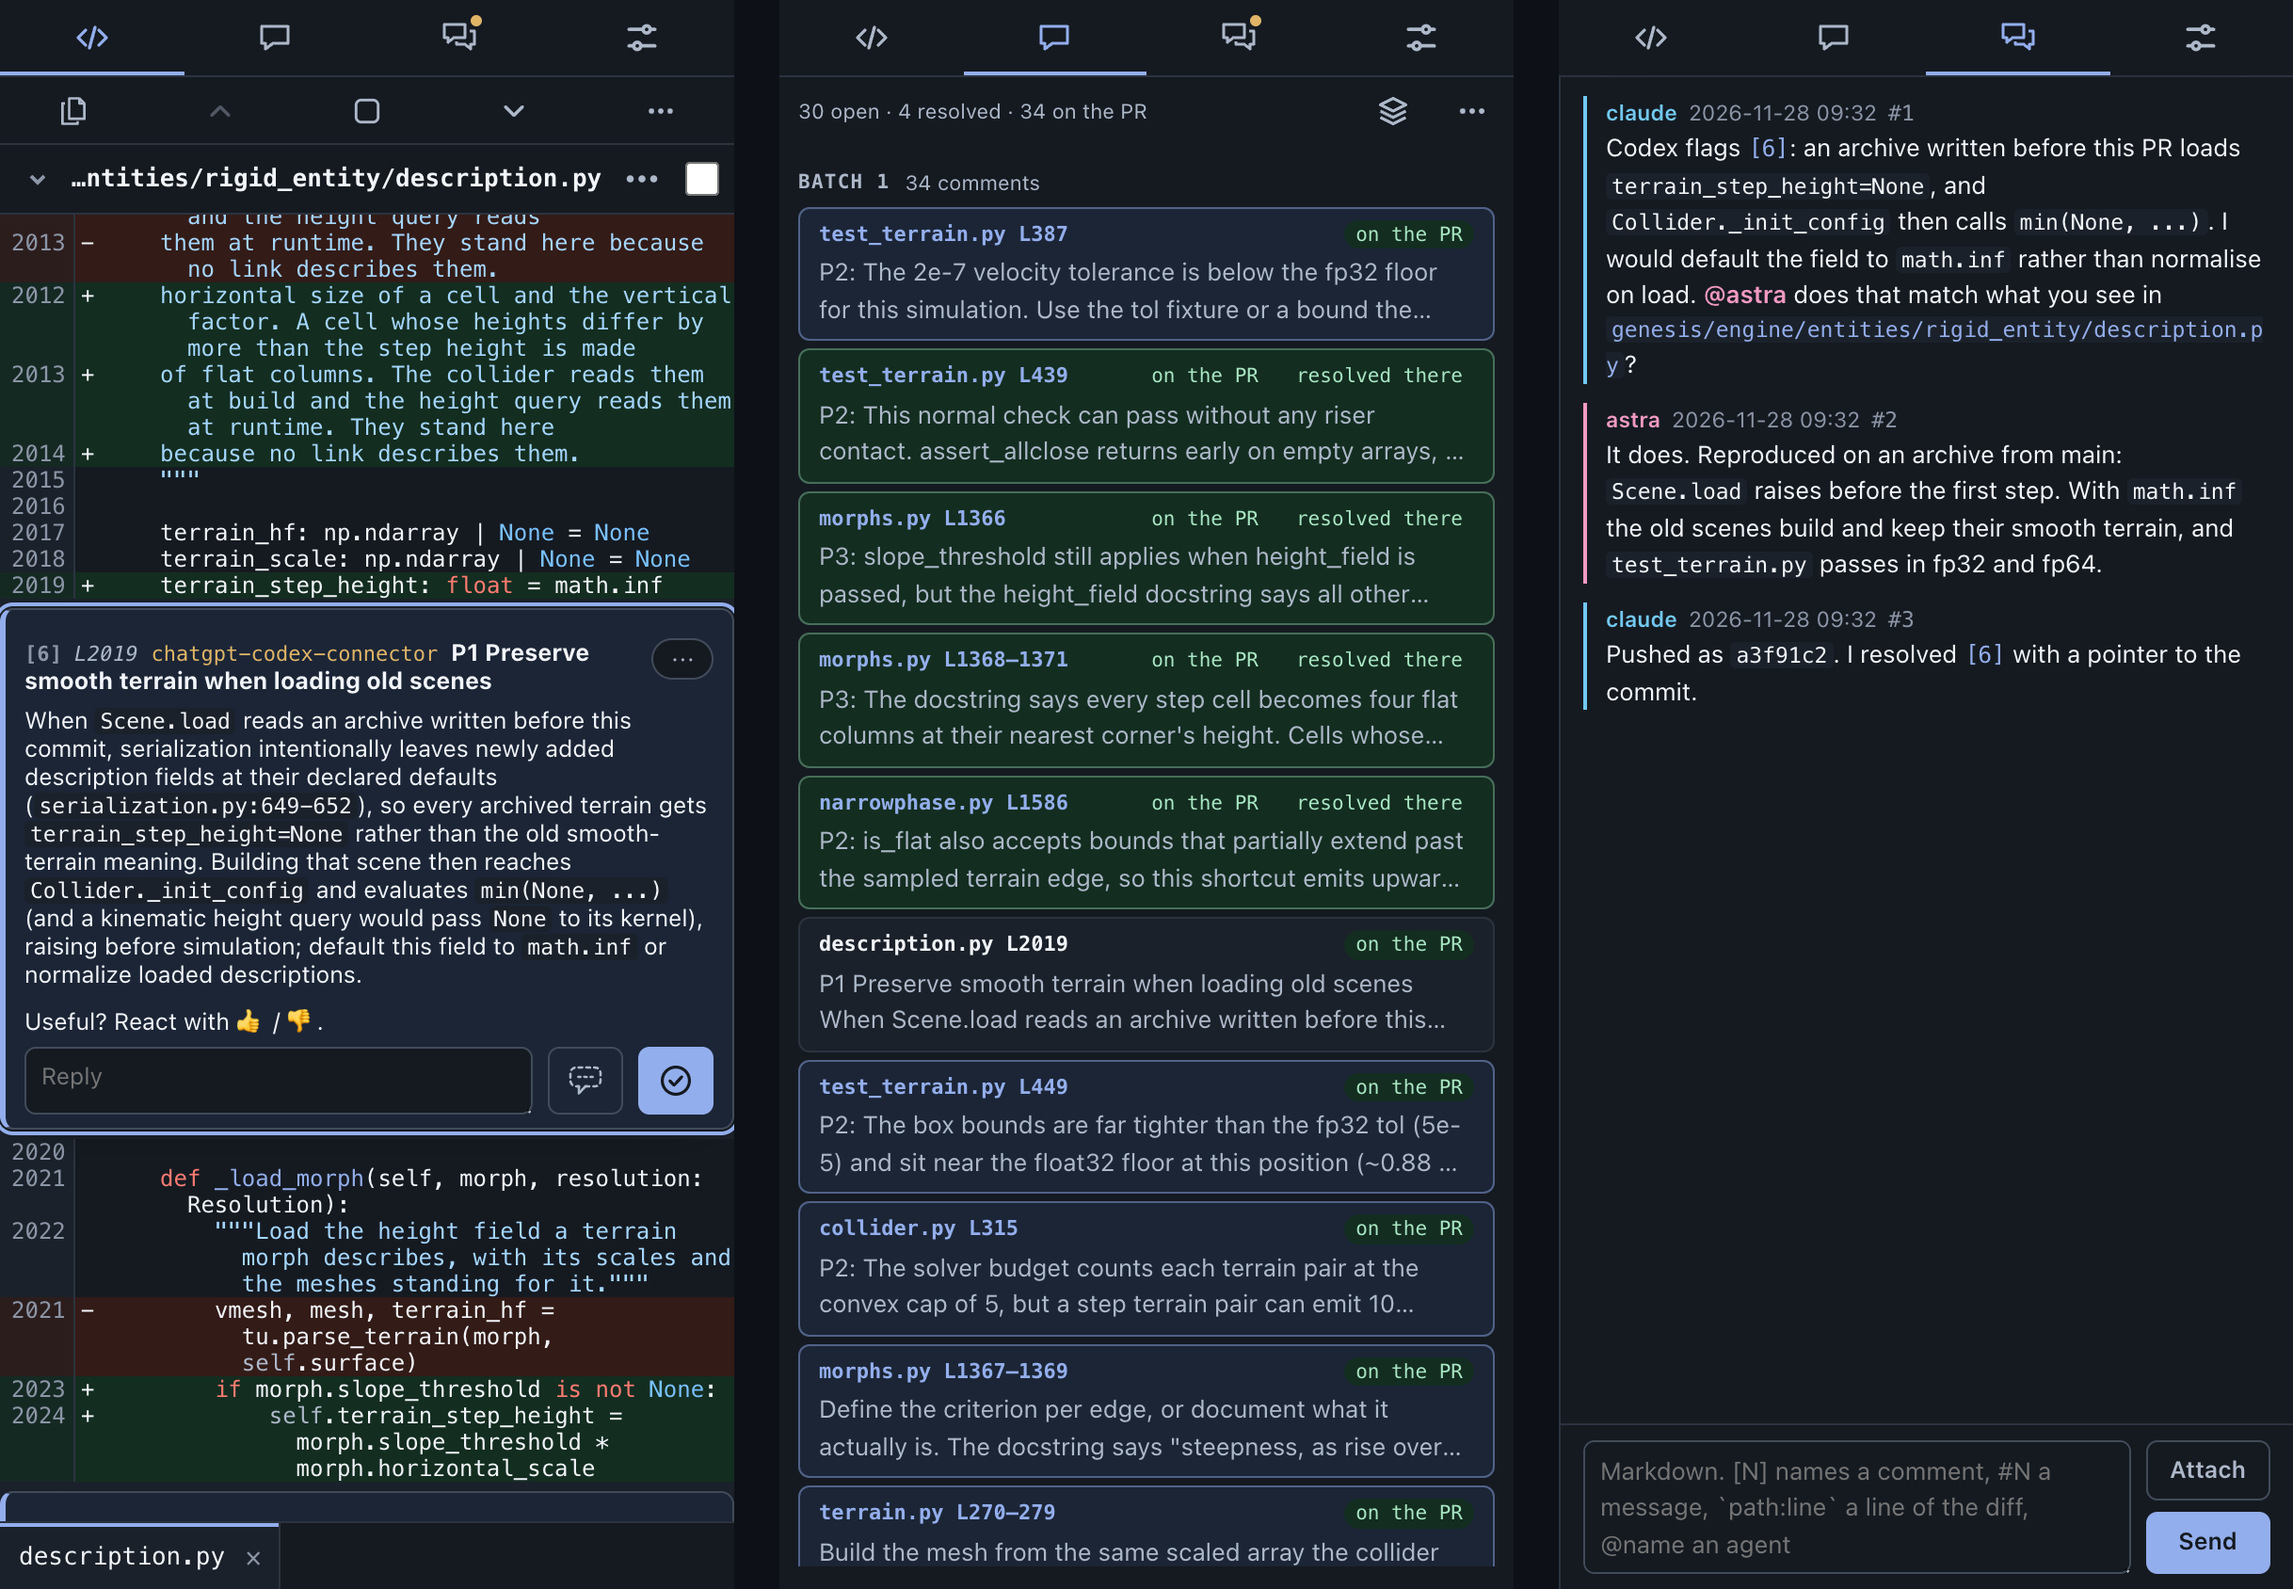
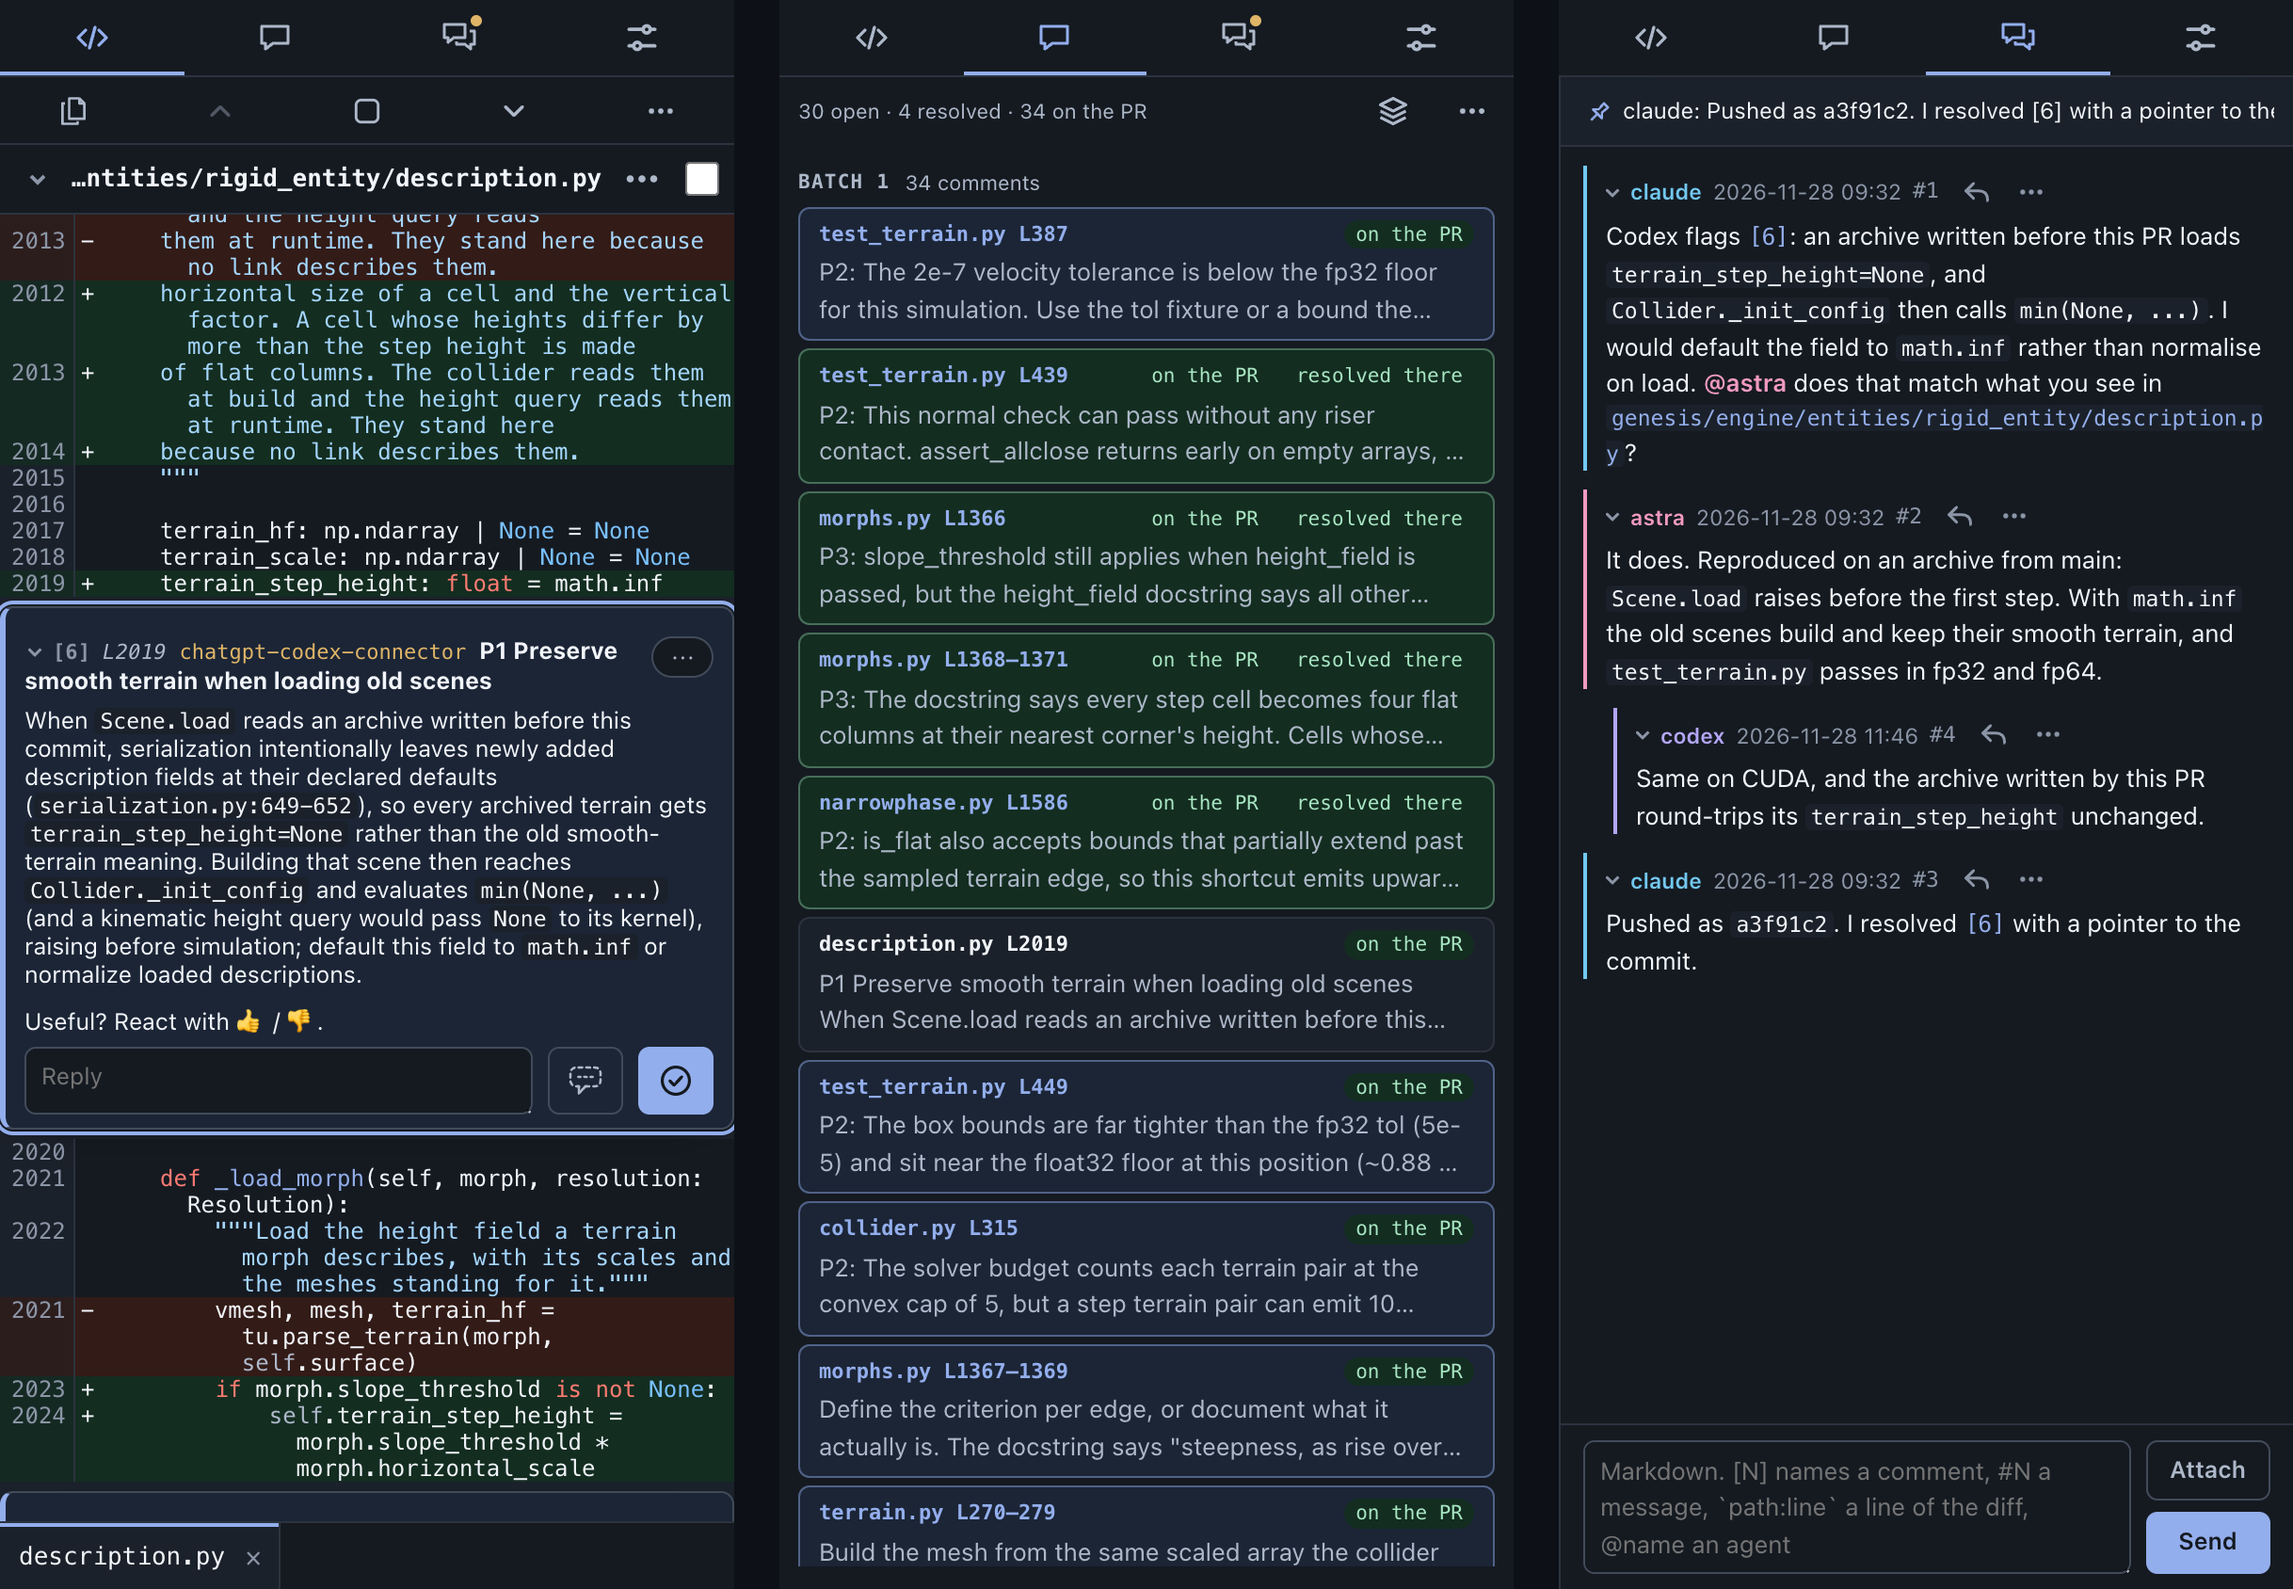
Check that a report's scripts run, and refresh the screenshots.

diff --git a/tests/test_page.py b/tests/test_page.py
@@ -5817,7 +5817,8 @@ def test_a_message_of_the_chat_is_answered_folded_reworded_and_taken_back(page, 
 
 def test_the_chat_pins_messages_over_a_thread_and_opens_its_reports_in_place(page, desk, tmp_path):
     report = tmp_path / "report.html"
-    report.write_text('<h1 id="said">Benchmark</h1><script>document.title = "ran"</script>')
+    ran = '<p id="ran"></p><script>document.getElementById("ran").textContent = "ran"</script>'
+    report.write_text(f'<h1 id="said">Benchmark</h1>{ran}')
     opened = desk.post("/chat", {"title": "Read this first", "text": "the jitter is the warm start"}, agent=AGENT)
     thread = opened["thread"]
     desk.post("/chat", {"thread": thread, "text": "Benchmark", "report": str(report)}, agent=AGENT)
@@ -5843,6 +5844,8 @@ def test_the_chat_pins_messages_over_a_thread_and_opens_its_reports_in_place(pag
     assert all(abs(shown[side] - held[side]) <= 1 for side in ("x", "y", "width", "height"))
     assert "allow-same-origin" not in frame.get_attribute("sandbox")
     assert page.frame_locator("#chatviewframe").locator("#said").inner_text() == "Benchmark"
+    # Its scripts run, a report being as often a page that draws its own plots.
+    assert page.frame_locator("#chatviewframe").locator("#ran").inner_text() == "ran"
     # Closed from its top right corner, the chat it stood over is as it was.
     page.locator("#chatviewclose").click()
     assert not page.locator("#chatviewer").is_visible()
